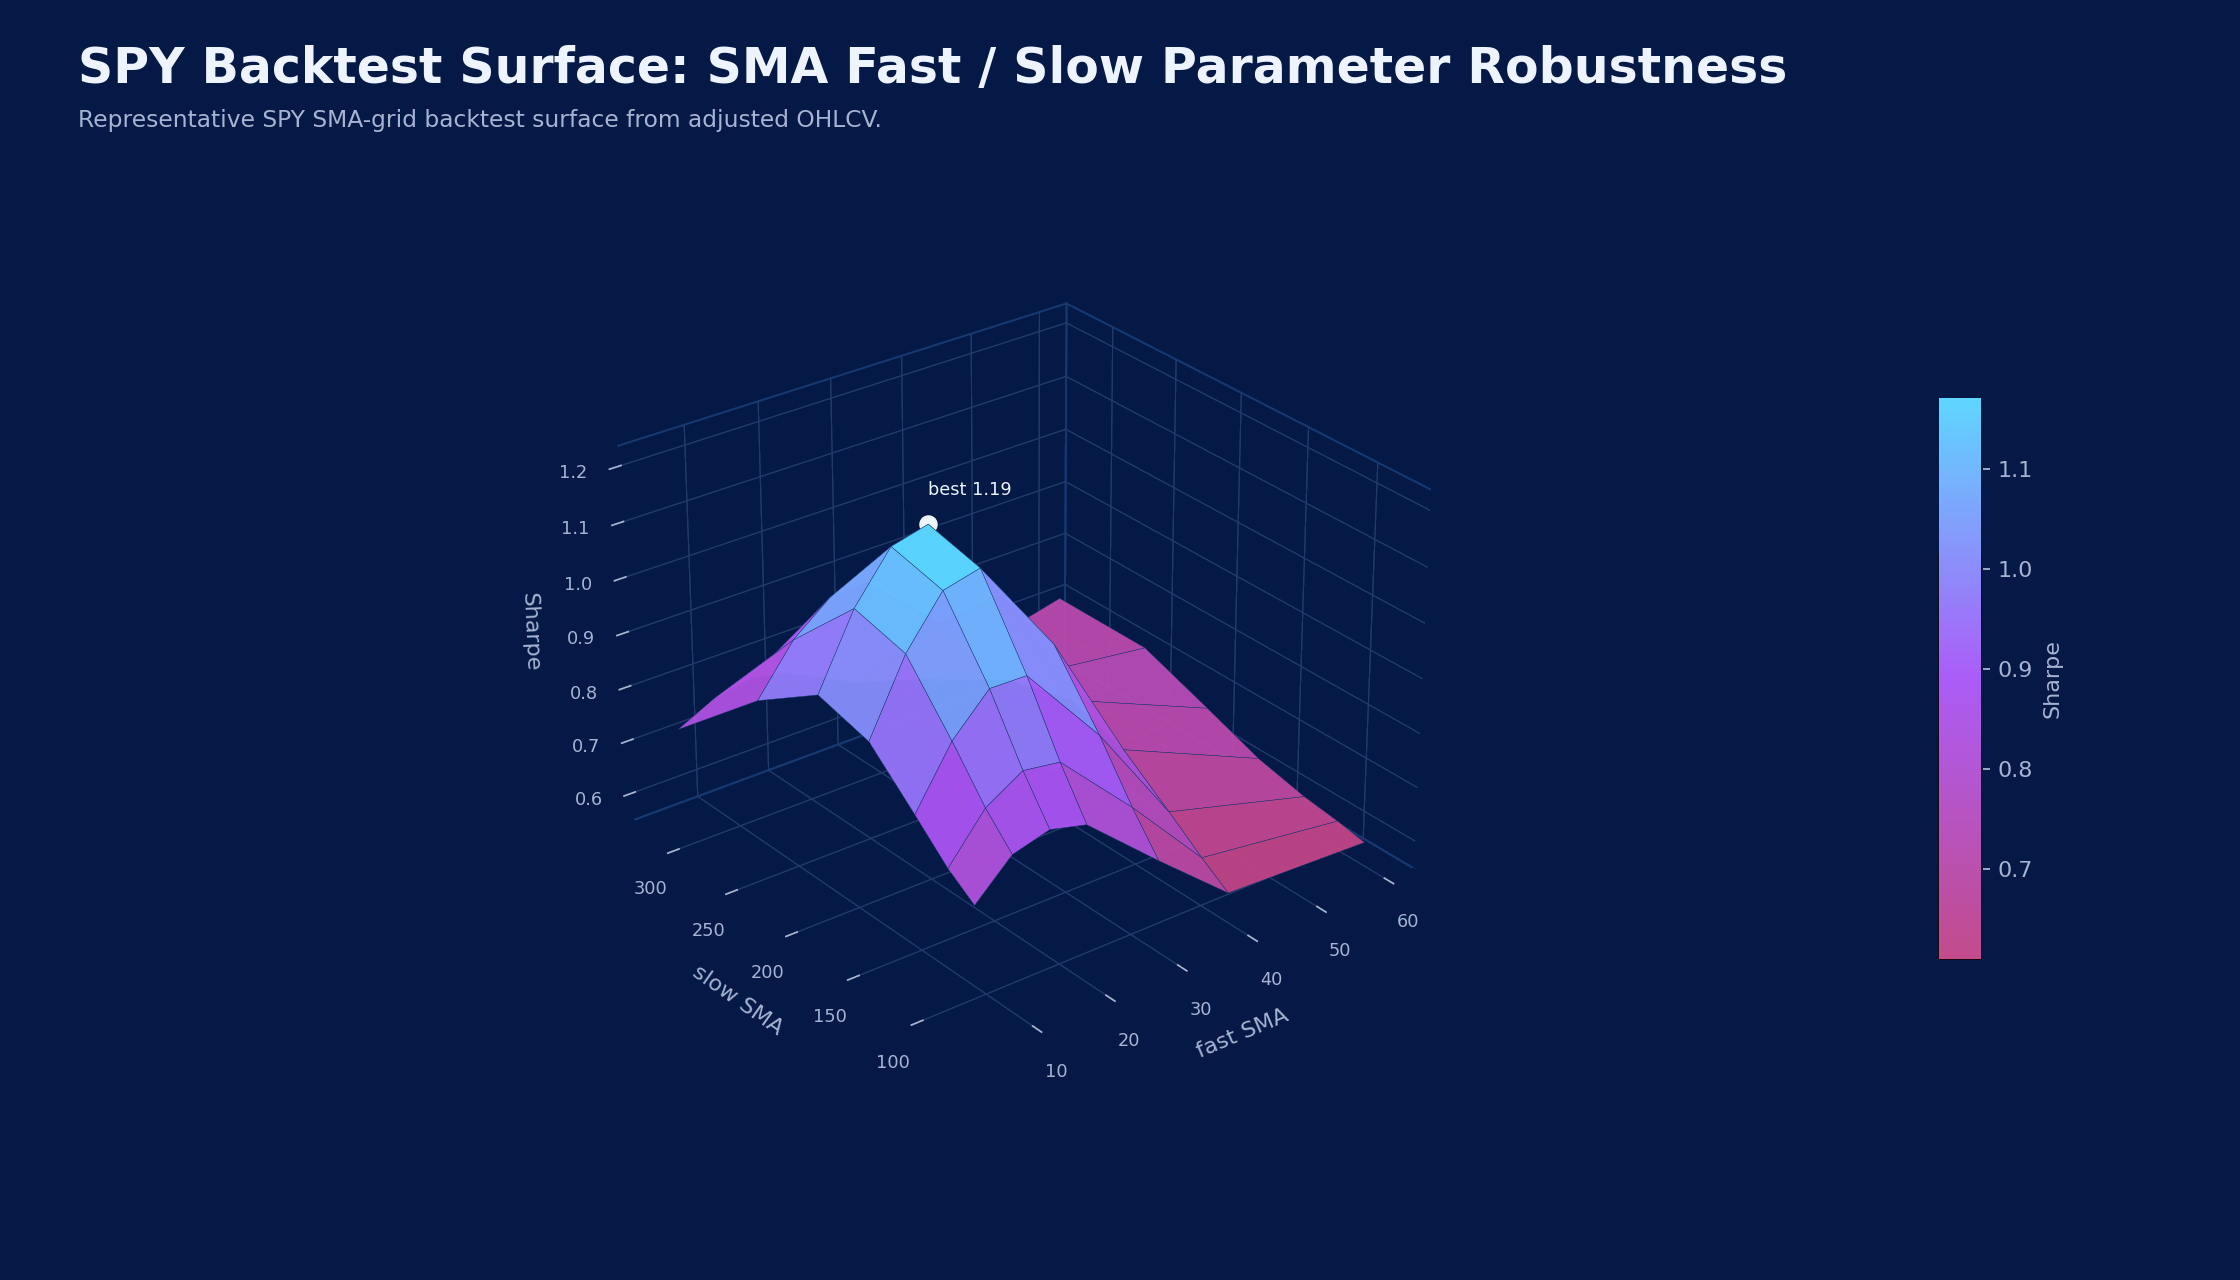
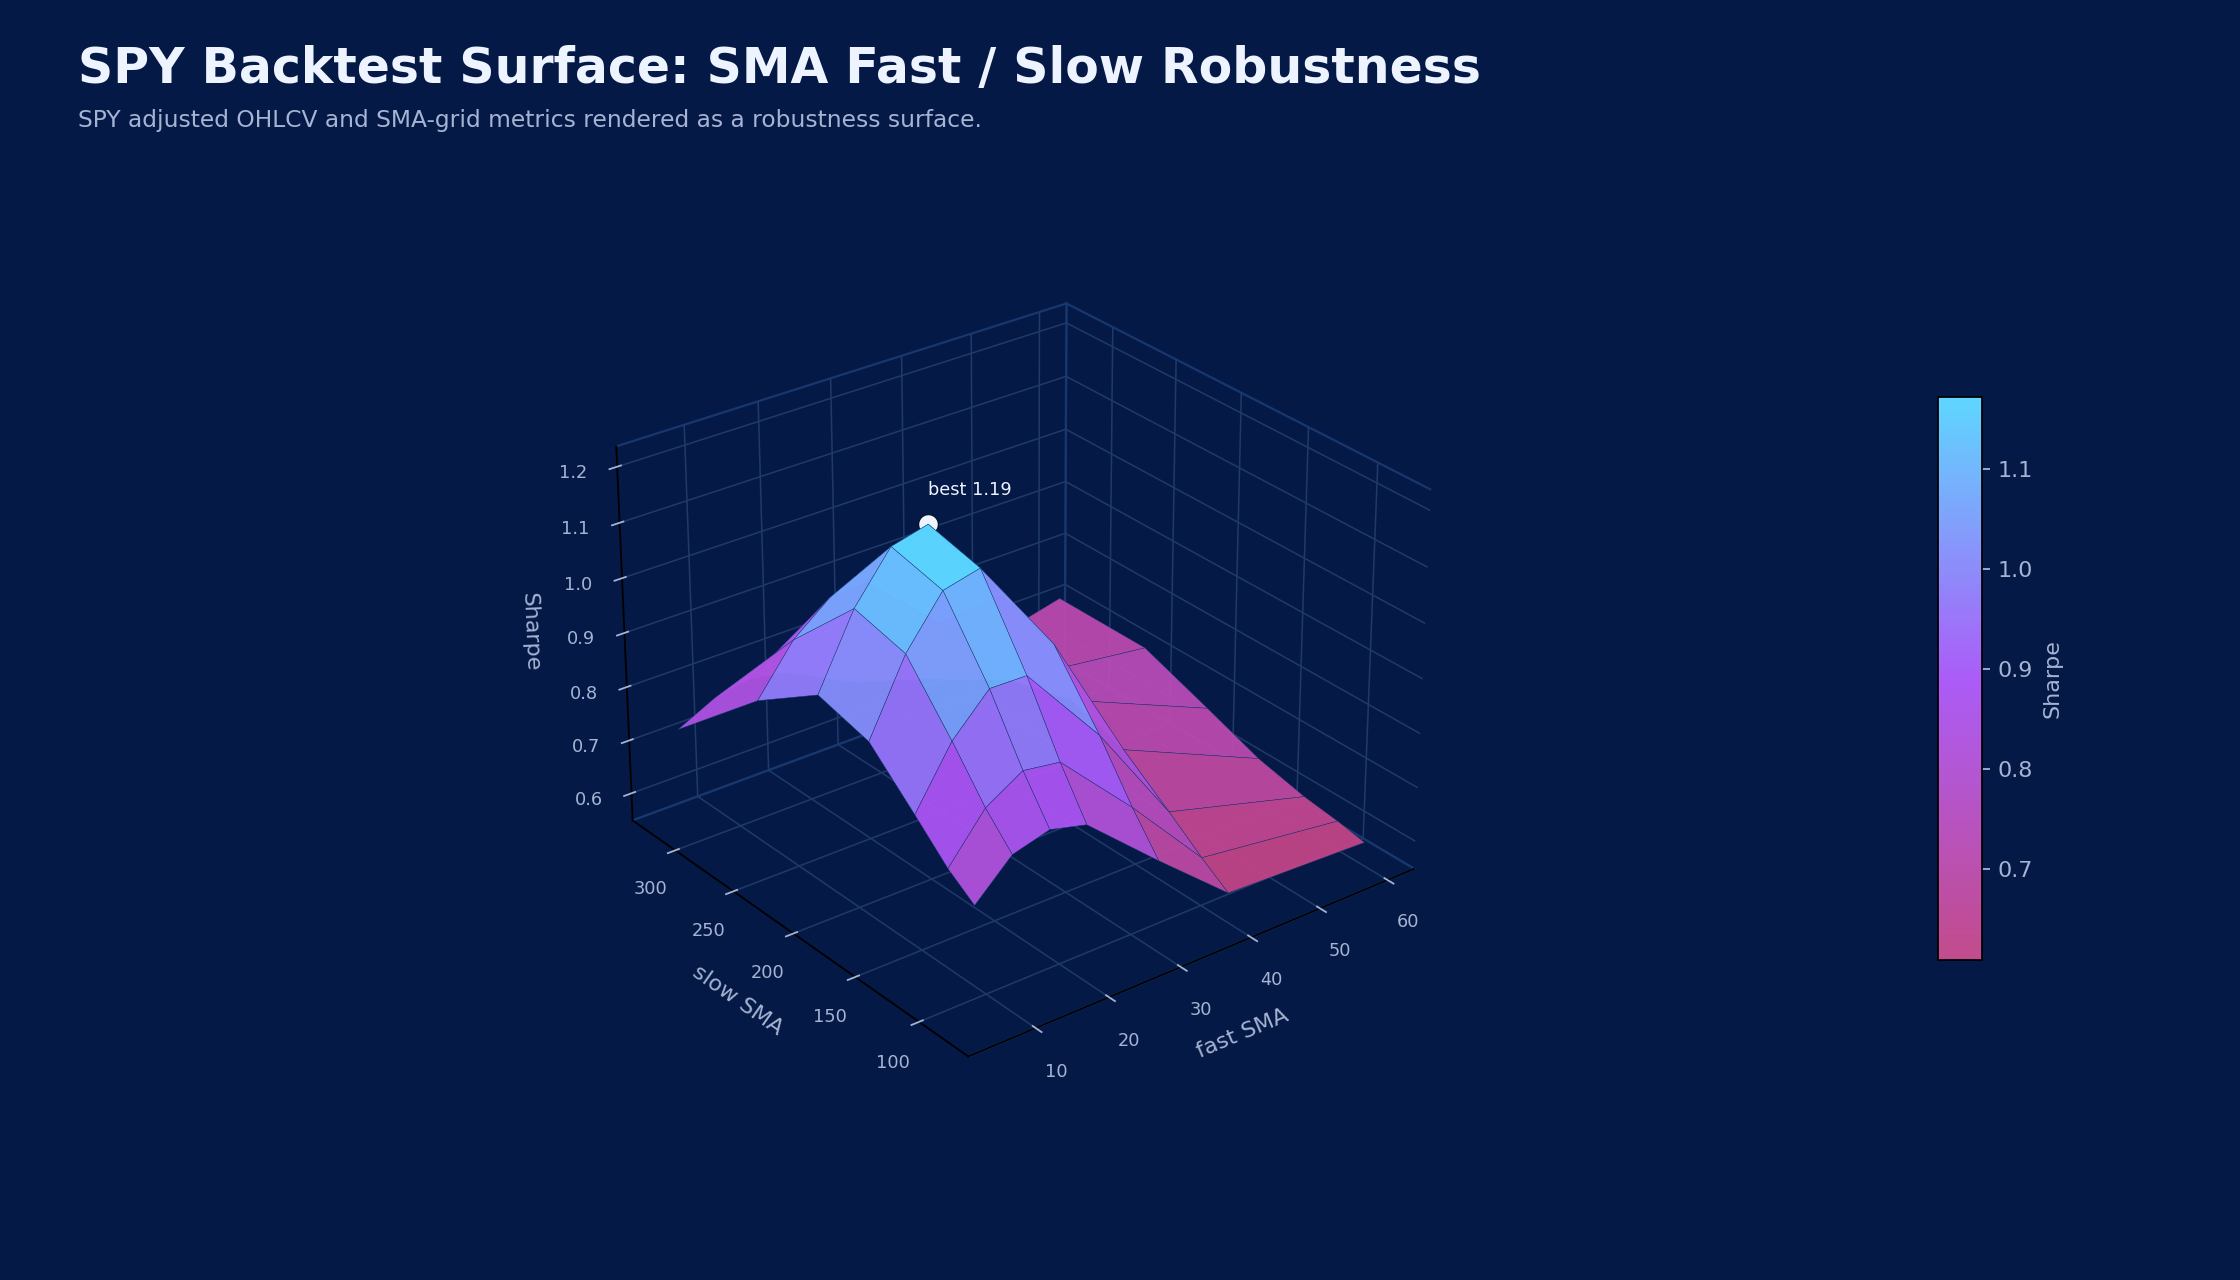
Add v3 multi-source showcase plots

diff --git a/scripts/generate_v3_showcase_outputs.py b/scripts/generate_v3_showcase_outputs.py
@@ -192,12 +192,14 @@ def plot_cloud_arr(out: Path) -> None:
     aws = np.array([82, 86, 85, 89, 92, 97, 100, 105, 110, 115, 117, 123, 132, 142, 150])
     x = np.arange(len(q))
     width = 0.25
+    cloud_purple = "#7c3aed"
+    cloud_magenta = "#8f2d6b"
     fig, ax = plt.subplots(figsize=(15, 8), facecolor=NAVY)
     title(fig, "Cloud Infrastructure ARR: AWS vs Azure vs Google Cloud", "Quarterly run-rate revenue in billions, with CAGR and total-change labels")
     style(ax)
     b1 = ax.bar(x - width, gcp, width, color=BLUE, label=f"Google Cloud ARR | total change {total_change(gcp):.1%} | CAGR {cagr(gcp):.1%}")
-    b2 = ax.bar(x, azure, width, color=PINK, label=f"Azure ARR | total change {total_change(azure):.1%} | CAGR {cagr(azure):.1%}")
-    b3 = ax.bar(x + width, aws, width, color=ORANGE, label=f"AWS ARR | total change {total_change(aws):.1%} | CAGR {cagr(aws):.1%}")
+    b2 = ax.bar(x, azure, width, color=cloud_magenta, label=f"Azure ARR | total change {total_change(azure):.1%} | CAGR {cagr(azure):.1%}")
+    b3 = ax.bar(x + width, aws, width, color=cloud_purple, label=f"AWS ARR | total change {total_change(aws):.1%} | CAGR {cagr(aws):.1%}")
     annotate_bars(ax, [b1, b2, b3], fontsize=8.2)
     ax.set_xticks(x, q, rotation=0)
     ax.set_ylim(0, 178)
@@ -833,7 +835,7 @@ def plot_backtest_parameter_surface_3d(out: Path) -> None:
     surface += 0.05 * np.sin(X / 8) + 0.04 * np.cos(Y / 45)
     best = np.unravel_index(np.argmax(surface), surface.shape)
     fig = plt.figure(figsize=(14, 8), facecolor=NAVY)
-    title(fig, "SPY Backtest Surface: SMA Fast / Slow Parameter Robustness", "Representative SPY SMA-grid backtest surface from adjusted OHLCV.")
+    title(fig, "SPY Backtest Surface: SMA Fast / Slow Robustness", "SPY adjusted OHLCV and SMA-grid metrics rendered as a robustness surface.")
     ax, cax = surface_layout(fig)
     style_3d(ax)
     surf = ax.plot_surface(X, Y, surface, cmap=LinearSegmentedColormap.from_list("bt3d", [PINK, PURPLE, CYAN]), edgecolor="#17376f", linewidth=0.2, alpha=0.96)
@@ -953,7 +955,7 @@ def plot_liquidity_slippage_surface_3d(out: Path) -> None:
     X, Y = np.meshgrid(participation, notional)
     slippage = 1.6 * np.sqrt(X) * np.sqrt(Y / 25) + 0.025 * Y
     fig = plt.figure(figsize=(14, 8), facecolor=NAVY)
-    title(fig, "AAPL Liquidity Surface: Slippage by Order Size and Participation", "Representative AAPL surface from volume, FINRA shorts and ADV capacity.")
+    title(fig, "AAPL Liquidity Surface: Slippage by Order Size and Participation", "Adjusted volume, FINRA short pressure and ADV assumptions rendered as an execution-cost surface.")
     ax, cax = surface_layout(fig)
     style_3d(ax)
     surf = ax.plot_surface(X, Y, slippage, cmap=LinearSegmentedColormap.from_list("liq3d", [CYAN, PURPLE, PINK]), linewidth=0.2, edgecolor="#17376f", alpha=0.96)
@@ -1000,7 +1002,7 @@ def plot_option_greeks_surface_3d(out: Path) -> None:
     gamma = np.exp(-((X - 100) ** 2) / 120) * np.exp(-Y / 240) * 1.8
     gamma -= 0.55 * np.exp(-((X - 112) ** 2) / 80) * np.exp(-Y / 80)
     fig = plt.figure(figsize=(14, 8), facecolor=NAVY)
-    title(fig, "SPY Options Greeks Surface: Net Gamma Exposure", "Representative gamma surface from SPY option strikes and expiries.")
+    title(fig, "SPY Option Greeks Surface: Net Gamma Exposure", "SPY option strikes and expiries rendered as a net-gamma exposure surface.")
     ax, cax = surface_layout(fig)
     style_3d(ax)
     surf = ax.plot_surface(X, Y, gamma, cmap=LinearSegmentedColormap.from_list("gamma3d", [PINK, NAVY, PURPLE]), edgecolor="#17376f", linewidth=0.2, alpha=0.96)
@@ -1012,6 +1014,211 @@ def plot_option_greeks_surface_3d(out: Path) -> None:
     cbar.set_label("gamma exposure", color=MUTED)
     cbar.ax.tick_params(colors=MUTED)
     save(fig, out)
+
+
+def plot_forward_return_distribution(out: Path) -> None:
+    rng = np.random.default_rng(3260)
+    buckets = {
+        "Positive revisions": rng.normal(2.8, 5.0, 220),
+        "Insider buys": rng.normal(1.7, 4.7, 190),
+        "SEC filing events": rng.normal(0.9, 5.8, 210),
+        "High short pressure": rng.normal(-1.2, 6.6, 180),
+    }
+    fig = plt.figure(figsize=(14, 8), facecolor=NAVY)
+    gs = fig.add_gridspec(1, 2, width_ratios=[1.25, 0.9])
+    title(fig, "Forward Return Distribution: Event-Conditioned 21D Outcomes", "Event, estimate and microstructure routes converted into comparable forward-return distributions")
+    ax = fig.add_subplot(gs[0])
+    axq = fig.add_subplot(gs[1])
+    style(ax)
+    style(axq)
+    colors = [CYAN, PURPLE, BLUE, PINK]
+    bins = np.linspace(-18, 22, 34)
+    for (label, values), color in zip(buckets.items(), colors):
+        ax.hist(values, bins=bins, density=True, histtype="step", linewidth=2.0, color=color, label=label)
+        ax.axvline(np.nanmedian(values), color=color, linestyle="--", alpha=0.72, linewidth=1.2)
+    ax.axvline(0, color=TEXT, alpha=0.55, linewidth=1.1)
+    ax.set_xlabel("21D forward return, %")
+    ax.set_ylabel("density")
+    ax.legend(loc="upper left", frameon=False, labelcolor=TEXT, fontsize=8)
+    quantiles = pd.DataFrame({k: np.percentile(v, [5, 25, 50, 75, 95]) for k, v in buckets.items()}, index=["p5", "p25", "median", "p75", "p95"]).T
+    y = np.arange(len(quantiles))
+    axq.hlines(y, quantiles["p5"], quantiles["p95"], color=GRID, linewidth=6, alpha=0.85)
+    axq.hlines(y, quantiles["p25"], quantiles["p75"], color=BLUE, linewidth=9, alpha=0.55)
+    axq.scatter(quantiles["median"], y, color=TEXT, s=70, zorder=4, edgecolors=INK, linewidths=0.6)
+    for yi, median in zip(y, quantiles["median"]):
+        axq.text(median + 0.8, yi, f"{median:+.1f}%", va="center", color=TEXT, fontsize=8)
+    axq.axvline(0, color=TEXT, alpha=0.5)
+    axq.set_yticks(y, quantiles.index)
+    axq.set_xlabel("return quantile range, %")
+    axq.set_title("quantile packet", color=TEXT, loc="left", fontsize=12)
+    save(fig, out)
+
+
+def plot_imf_ecb_macro_heatmap(out: Path) -> None:
+    countries = ["US", "Euro Area", "UK", "Japan", "China", "India"]
+    metrics = [
+        "Real GDP growth",
+        "CPI inflation",
+        "Policy rate",
+        "Unemployment",
+        "Current-account balance",
+        "FX reserve trend",
+    ]
+    values = np.array(
+        [
+            [2.4, 0.8, 0.7, 0.4, -0.2, 1.8],
+            [3.1, 2.4, 2.6, 2.0, 0.4, 4.7],
+            [5.3, 4.0, 5.0, 0.1, 1.8, 6.5],
+            [4.0, 6.4, 4.3, 2.6, 5.2, 7.1],
+            [-3.0, 2.8, -2.5, 3.7, 1.5, -1.1],
+            [-0.4, 0.3, -0.7, 0.2, 1.2, 0.9],
+        ]
+    )
+    z = (values - values.mean(axis=1, keepdims=True)) / values.std(axis=1, keepdims=True)
+    fig = plt.figure(figsize=(14, 8), facecolor=NAVY)
+    gs = fig.add_gridspec(1, 2, width_ratios=[1.35, 0.75])
+    title(fig, "IMF + ECB Macro Monitor: Cross-Country Policy and Growth State", "IMF country indicators, ECB rates and FX reference data normalized into one macro heatmap")
+    ax = fig.add_subplot(gs[0])
+    axr = fig.add_subplot(gs[1])
+    style(ax)
+    style(axr)
+    im = ax.imshow(z, cmap=CMAP, aspect="auto", vmin=-1.8, vmax=1.8)
+    ax.set_xticks(np.arange(len(countries)), countries, rotation=20, ha="right")
+    ax.set_yticks(np.arange(len(metrics)), metrics)
+    for i in range(values.shape[0]):
+        for j in range(values.shape[1]):
+            ax.text(j, i, f"{values[i, j]:+.1f}", color=TEXT, ha="center", va="center", fontsize=8)
+    ax.set_title("standardized macro state with raw values", color=TEXT, loc="left", fontsize=12)
+    composite = pd.Series(z[[0, 1, 2, 4]].mean(axis=0), index=countries).sort_values()
+    colors = [PINK if v < 0 else CYAN for v in composite]
+    axr.barh(composite.index, composite.values, color=colors, alpha=0.92)
+    axr.axvline(0, color=TEXT, alpha=0.55)
+    axr.set_xlabel("macro composite z-score")
+    axr.set_title("growth / inflation / policy composite", color=TEXT, loc="left", fontsize=12)
+    cbar = fig.colorbar(im, ax=ax, fraction=0.027, pad=0.02)
+    cbar.set_label("row z-score", color=MUTED)
+    cbar.ax.tick_params(colors=MUTED)
+    save(fig, out)
+
+
+def plot_eia_energy_inventory_panel(out: Path) -> None:
+    rng = np.random.default_rng(3261)
+    weeks = pd.date_range("2024-01-05", periods=96, freq="W-FRI")
+    crude = pd.Series(np.cumsum(rng.normal(0.1, 1.9, len(weeks))) + 418, index=weeks)
+    gasoline = pd.Series(np.cumsum(rng.normal(0.0, 1.2, len(weeks))) + 226, index=weeks)
+    distillate = pd.Series(np.cumsum(rng.normal(0.0, 0.95, len(weeks))) + 117, index=weeks)
+    wti = pd.Series(78 + np.cumsum(rng.normal(0.0, 1.4, len(weeks))), index=weeks)
+    gas = pd.Series(2.7 + np.cumsum(rng.normal(0.0, 0.06, len(weeks))), index=weeks)
+    fig = plt.figure(figsize=(14, 8), facecolor=NAVY)
+    gs = fig.add_gridspec(2, 2, width_ratios=[1.35, 0.95])
+    title(fig, "EIA Energy Dashboard: Inventories and Curve Pressure", "EIA petroleum stocks and energy prices transformed into inventory pressure and spread diagnostics")
+    ax = fig.add_subplot(gs[:, 0])
+    axb = fig.add_subplot(gs[0, 1])
+    axr = fig.add_subplot(gs[1, 1])
+    for item in (ax, axb, axr):
+        style(item)
+    ax.plot(weeks, crude, color=CYAN, linewidth=2.0, label="Crude oil stocks")
+    ax.plot(weeks, gasoline, color=PURPLE, linewidth=1.8, label="Gasoline stocks")
+    ax.plot(weeks, distillate, color=PINK, linewidth=1.8, label="Distillate stocks")
+    ax.set_ylabel("million barrels")
+    ax.legend(loc="upper left", frameon=False, labelcolor=TEXT, fontsize=8)
+    latest_changes = pd.Series(
+        {
+            "Crude": crude.diff().iloc[-1],
+            "Gasoline": gasoline.diff().iloc[-1],
+            "Distillate": distillate.diff().iloc[-1],
+            "4W crude": crude.diff(4).iloc[-1],
+        }
+    )
+    axb.bar(latest_changes.index, latest_changes.values, color=[CYAN if v >= 0 else PINK for v in latest_changes.values], alpha=0.92)
+    axb.axhline(0, color=TEXT, alpha=0.55)
+    axb.set_ylabel("inventory change")
+    axb.set_title("latest stock changes", color=TEXT, loc="left", fontsize=12)
+    ratio = wti / gas
+    z = rolling_zscore(ratio, 26).fillna(0)
+    axr.plot(weeks, z, color=PURPLE, linewidth=2.1, label="WTI / gas z-score")
+    axr.axhline(0, color=TEXT, alpha=0.5)
+    axr.axhline(2, color=PINK, linestyle="--", alpha=0.65)
+    axr.axhline(-2, color=CYAN, linestyle="--", alpha=0.65)
+    axr.set_ylabel("z-score")
+    axr.set_title("cross-energy ratio pressure", color=TEXT, loc="left", fontsize=12)
+    save(fig, out)
+
+
+def plot_ccxt_crypto_basis_panel(out: Path) -> None:
+    symbols = ["BTC/USDT", "ETH/USDT", "SOL/USDT", "BNB/USDT", "XRP/USDT", "DOGE/USDT"]
+    rng = np.random.default_rng(3262)
+    momentum = rng.normal(8, 18, len(symbols))
+    funding = rng.normal(3.5, 9, len(symbols))
+    open_interest = rng.uniform(1.2, 12.5, len(symbols))
+    spread = rng.uniform(0.8, 6.8, len(symbols))
+    basis = np.outer(np.linspace(-0.8, 1.2, 5), np.linspace(0.7, 1.4, len(symbols))) + rng.normal(0, 0.18, (5, len(symbols)))
+    fig = plt.figure(figsize=(14, 8), facecolor=NAVY)
+    gs = fig.add_gridspec(2, 2)
+    title(fig, "CCXT Crypto Microstructure: Funding, Momentum and Exchange Basis", "Exchange OHLCV, funding, open-interest and order-book routes converted into a cross-asset crypto risk panel")
+    ax = fig.add_subplot(gs[:, 0])
+    axb = fig.add_subplot(gs[0, 1])
+    axh = fig.add_subplot(gs[1, 1])
+    for item in (ax, axb, axh):
+        style(item)
+    sizes = 100 + open_interest * 42
+    ax.scatter(momentum, funding, s=sizes, color=[CYAN, PURPLE, BLUE, PINK, "#7dd3fc", "#8b5cf6"], edgecolors=TEXT, linewidths=0.5, alpha=0.92)
+    for symbol, x, y in zip(symbols, momentum, funding):
+        ax.text(x + 0.8, y + 0.45, symbol.replace("/USDT", ""), color=TEXT, fontsize=8)
+    ax.axhline(0, color=TEXT, alpha=0.5)
+    ax.axvline(0, color=TEXT, alpha=0.5)
+    ax.set_xlabel("30D spot momentum, %")
+    ax.set_ylabel("annualized funding, %")
+    ax.set_title("funding versus momentum", color=TEXT, loc="left", fontsize=12)
+    axb.bar(symbols, spread, color=[PURPLE if v > 4 else CYAN for v in spread], alpha=0.9)
+    axb.set_xticks(np.arange(len(symbols)), [s.split("/")[0] for s in symbols], rotation=0)
+    axb.set_ylabel("bps")
+    axb.set_title("L2 bid/ask spread", color=TEXT, loc="left", fontsize=12)
+    im = axh.imshow(basis, cmap=CMAP, aspect="auto")
+    axh.set_xticks(np.arange(len(symbols)), [s.split("/")[0] for s in symbols])
+    axh.set_yticks(np.arange(5), ["Binance", "Bybit", "OKX", "Kraken", "Coinbase"])
+    axh.set_title("exchange basis state", color=TEXT, loc="left", fontsize=12)
+    cbar = fig.colorbar(im, ax=axh, fraction=0.047, pad=0.02)
+    cbar.set_label("basis z", color=MUTED)
+    cbar.ax.tick_params(colors=MUTED)
+    save(fig, out)
+
+
+def plot_polymarket_odds_panel(out: Path) -> None:
+    markets = ["Fed cut", "CPI > 3%", "Oil > $90", "BTC ATH", "Recession", "Election vol"]
+    probability = np.array([0.58, 0.34, 0.27, 0.49, 0.22, 0.64])
+    one_week = np.array([0.06, -0.04, 0.03, 0.08, -0.02, 0.05])
+    volume = np.array([18, 11, 6, 22, 9, 15])
+    fig = plt.figure(figsize=(14, 8), facecolor=NAVY)
+    gs = fig.add_gridspec(1, 2, width_ratios=[1.05, 0.95])
+    title(fig, "Polymarket Event Odds: Prediction-Market Probability Packet", "Prediction-market routes converted into current odds, weekly change and liquidity-weighted event state")
+    ax = fig.add_subplot(gs[0])
+    axm = fig.add_subplot(gs[1])
+    style(ax)
+    style(axm)
+    y = np.arange(len(markets))
+    ax.hlines(y, 0, probability * 100, color=GRID, linewidth=8, alpha=0.9)
+    ax.scatter(probability * 100, y, s=90 + volume * 8, color=[CYAN if d >= 0 else PINK for d in one_week], edgecolors=TEXT, linewidths=0.5)
+    for yi, p, d in zip(y, probability, one_week):
+        ax.text(p * 100 + 1.5, yi, f"{p:.0%} ({d:+.0%} 1W)", color=TEXT, va="center", fontsize=8)
+    ax.set_yticks(y, markets)
+    ax.set_xlim(0, 78)
+    ax.set_xlabel("yes probability, %")
+    ax.set_title("current market-implied odds", color=TEXT, loc="left", fontsize=12)
+    matrix = np.column_stack([probability, one_week * 5 + 0.5, volume / volume.max()])
+    im = axm.imshow(matrix, cmap=CMAP, aspect="auto", vmin=0, vmax=1)
+    axm.set_xticks(np.arange(3), ["probability", "1W change", "volume"])
+    axm.set_yticks(y, markets)
+    axm.set_title("normalized event state", color=TEXT, loc="left", fontsize=12)
+    for i in range(matrix.shape[0]):
+        for j in range(matrix.shape[1]):
+            axm.text(j, i, f"{matrix[i, j]:.2f}", color=TEXT, ha="center", va="center", fontsize=8)
+    cbar = fig.colorbar(im, ax=axm, fraction=0.047, pad=0.02)
+    cbar.set_label("normalized value", color=MUTED)
+    cbar.ax.tick_params(colors=MUTED)
+    fig.subplots_adjust(left=0.155, right=0.965, top=0.82, bottom=0.17, hspace=0.46, wspace=0.42)
+    fig.savefig(out, dpi=160, facecolor=NAVY, edgecolor="none")
+    plt.close(fig)
 
 
 def plot_outputs(output_dir: Path) -> list[dict[str, str]]:
@@ -1051,6 +1258,11 @@ def plot_outputs(output_dir: Path) -> list[dict[str, str]]:
         ("v3_29_liquidity_slippage_surface_3d.png", plot_liquidity_slippage_surface_3d, "3D liquidity and slippage surface"),
         ("v3_30_pairs_spread_zscore.png", plot_pairs_spread_zscore, "Pairs spread and rolling z-score"),
         ("v3_31_option_greeks_gamma_surface_3d.png", plot_option_greeks_surface_3d, "3D option Greeks gamma exposure surface"),
+        ("v3_32_forward_return_distribution.png", plot_forward_return_distribution, "Event-conditioned 21D forward-return distribution"),
+        ("v3_33_imf_ecb_macro_heatmap.png", plot_imf_ecb_macro_heatmap, "IMF and ECB cross-country macro monitor"),
+        ("v3_34_eia_energy_inventory_panel.png", plot_eia_energy_inventory_panel, "EIA energy inventory and cross-commodity pressure panel"),
+        ("v3_35_ccxt_crypto_basis_panel.png", plot_ccxt_crypto_basis_panel, "CCXT crypto funding, basis and order-book microstructure panel"),
+        ("v3_36_polymarket_odds_panel.png", plot_polymarket_odds_panel, "Polymarket event odds and liquidity-weighted probability packet"),
     ]
 
     manifest = []
